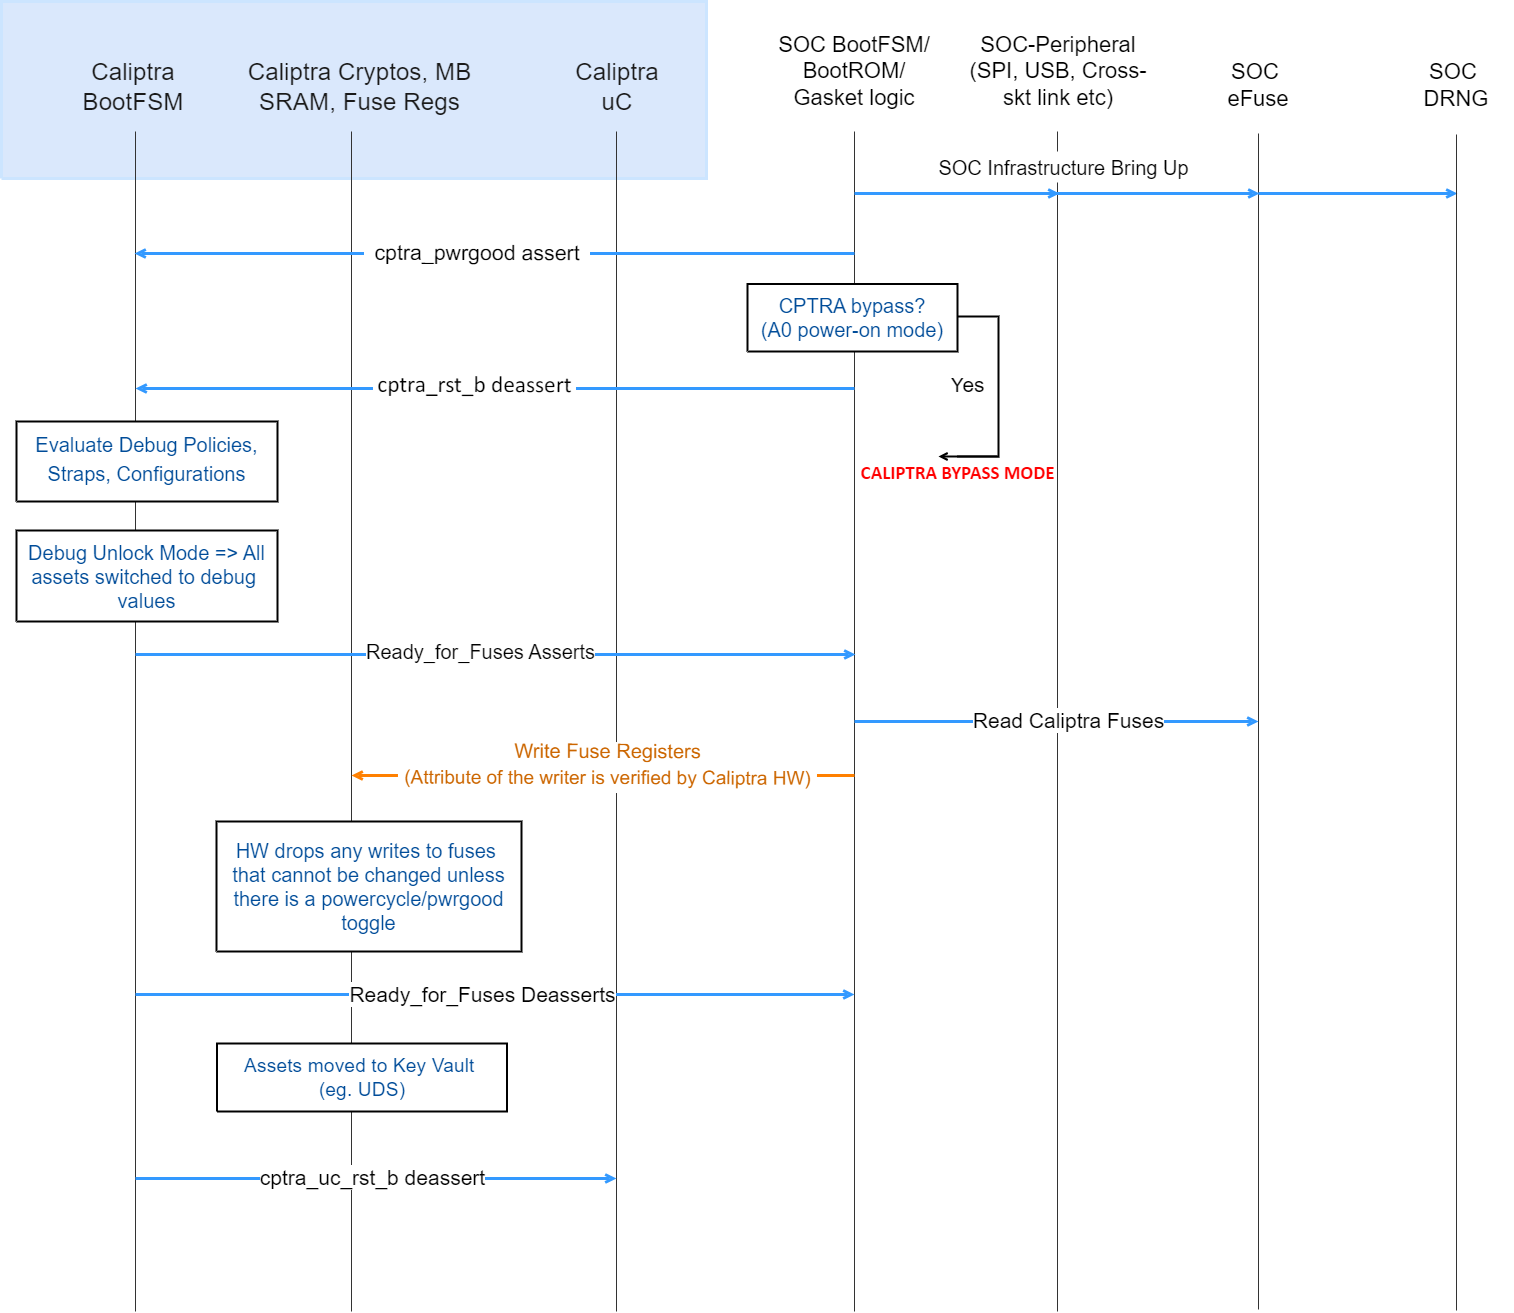
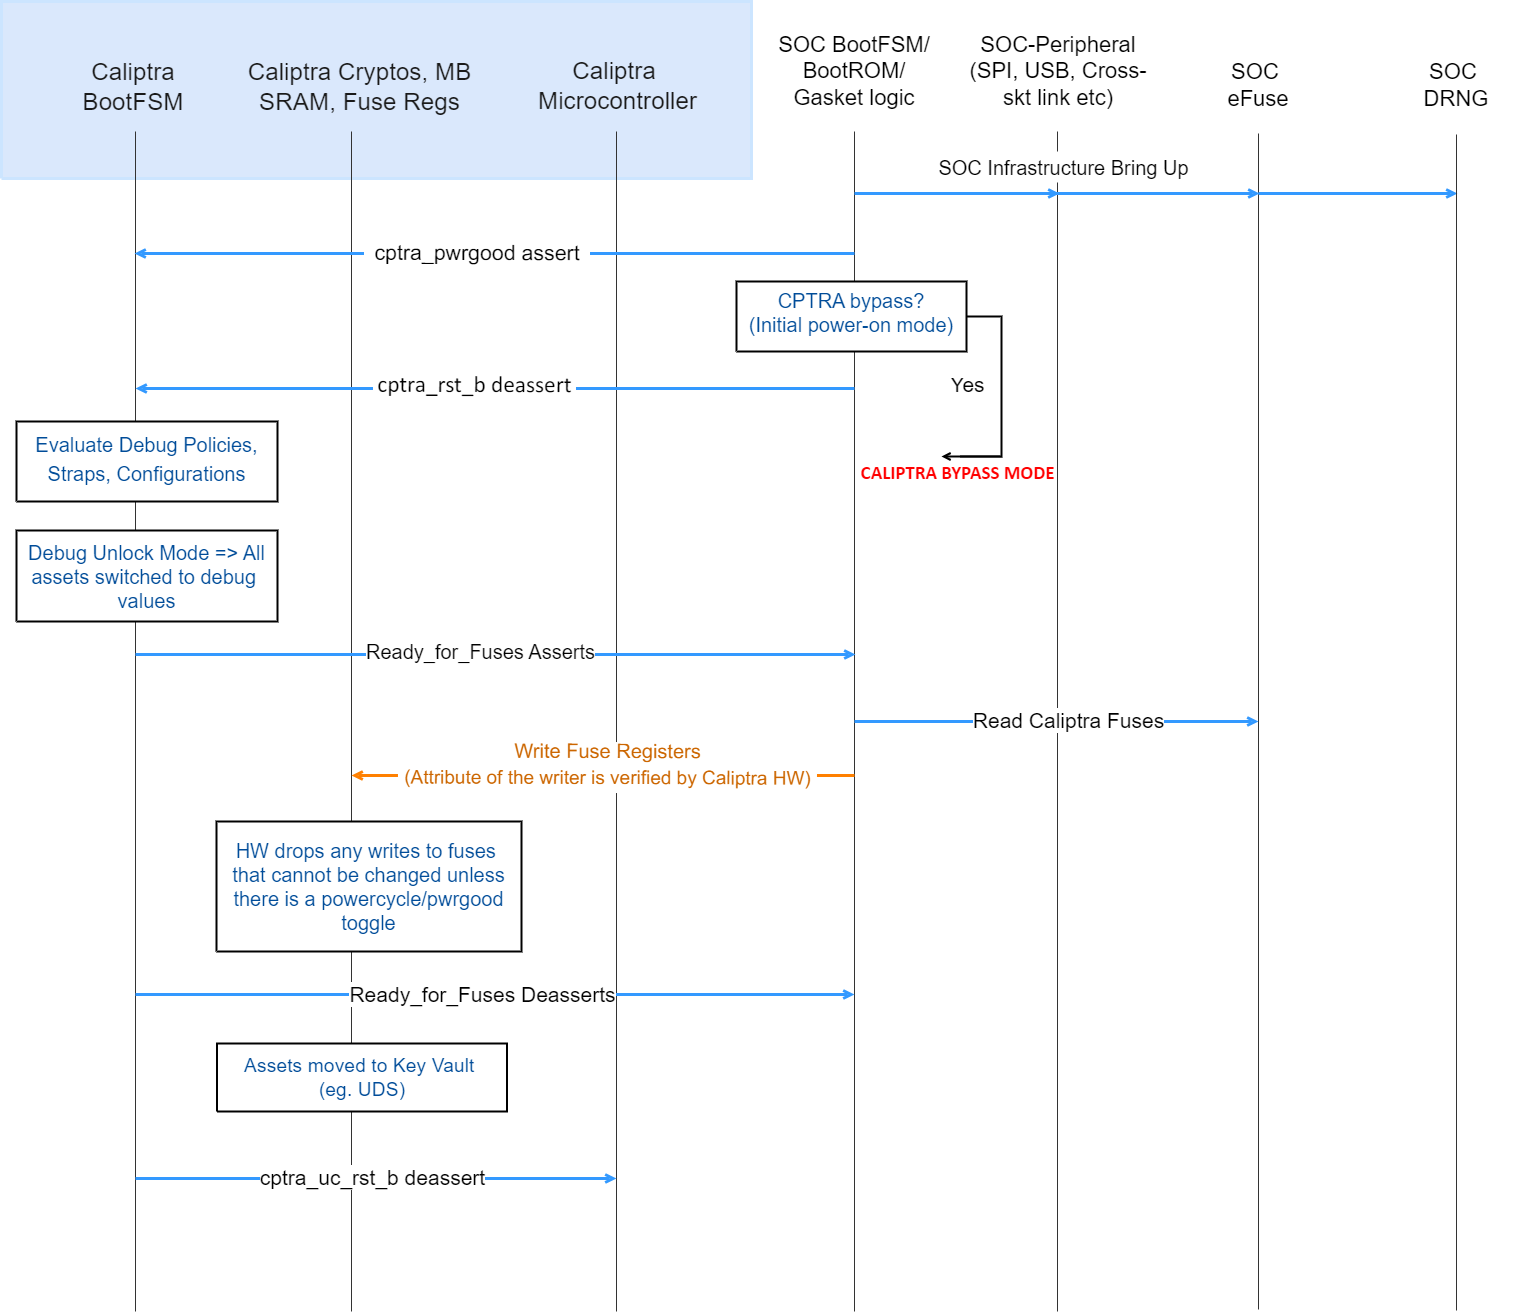
minor image updates

Changed region(s): [[0.4657, 0.1874, 0.683, 0.3435], [0.3415, 0.0, 0.4967, 0.1561]]

diff --git a/doc/Caliptra.md b/doc/Caliptra.md
@@ -773,7 +773,7 @@ The following figure describes the Caliptra IP HW boot flow.
 
 ![](./images/Caliptra_boot_flow2.png)
 
-1. As part of the SoC boot flow, SoC may have other infrastructure and entities that boot. That part of the flow is outside the scope of this document. If SoC chooses to bypass Caliptra, then it should have a capability to bypass Caliptra entirely through its proprietary flow. This may be needed for A0 power-on and other early validation.
+1. As part of the SoC boot flow, SoC may have other infrastructure and entities that boot. That part of the flow is outside the scope of this document. If SoC chooses to bypass Caliptra, then it should have a capability to bypass Caliptra entirely through its proprietary flow. This may be needed for initial power-on and other early validation.
 2. Cptra\_pwrgood is asserted to the Caliptra IP block.
 3. Cptra\_rst\_b is deasserted to the Caliptra IP block. See the integration specification for guidelines on the minimum number of cycles between these two signals.
 4. Caliptra IP now evaluates the strap settings driven through various interface wires (for example, BMD vs BMI mode, the security or debug state of the SoC, etc.).
